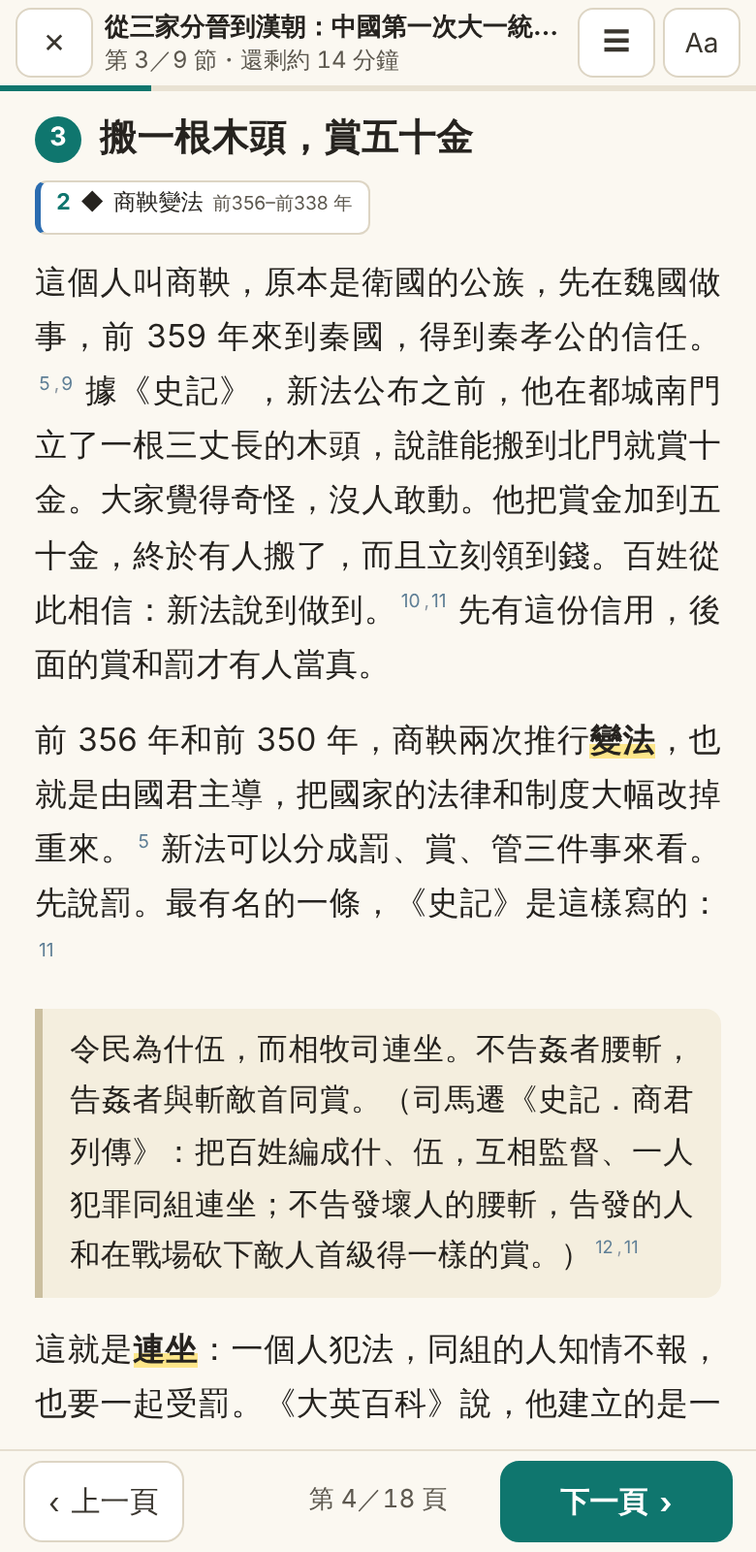
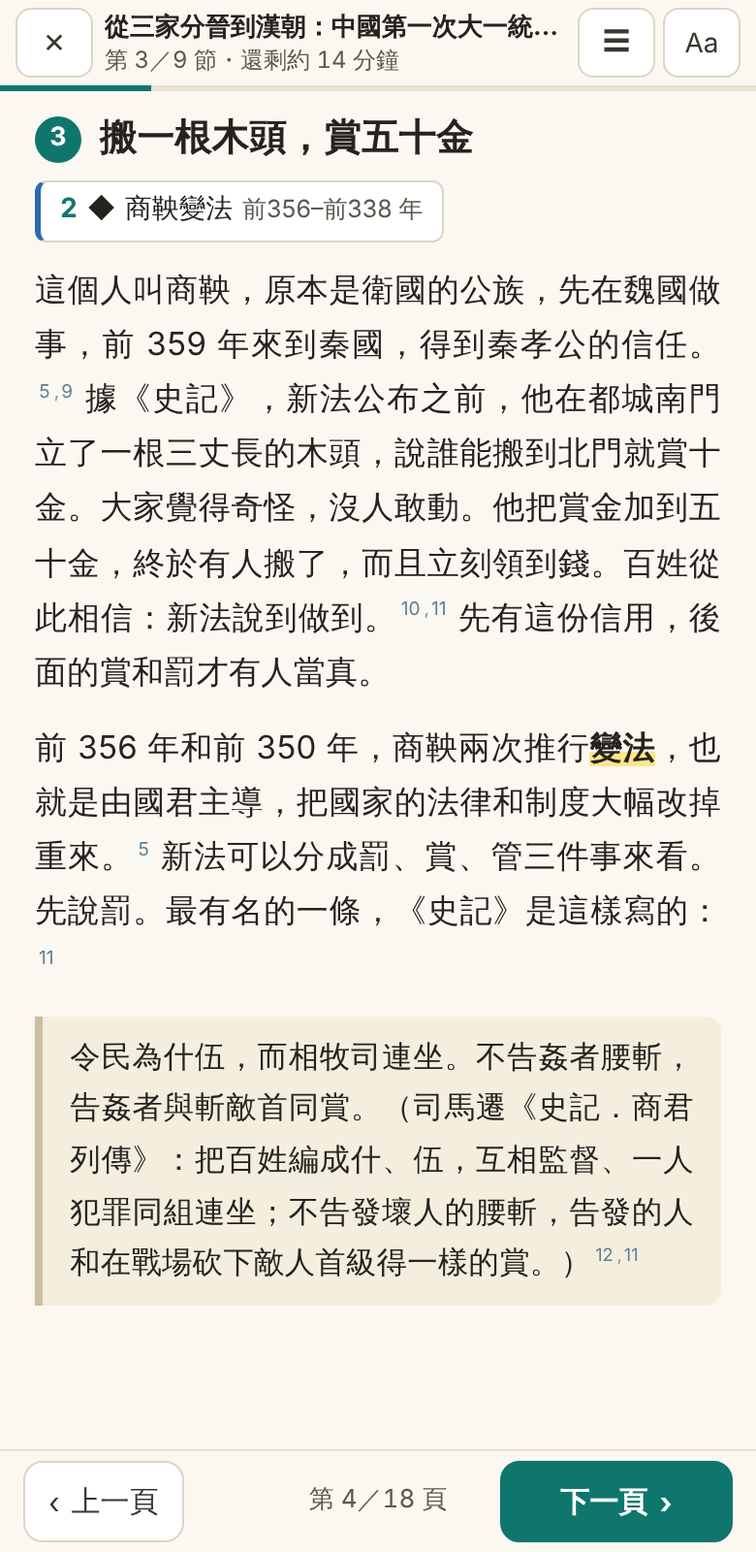
故事閱讀頁預設改回下拉單頁：桌機右側固定列出各節大標、一個畫面更多字、站卡片字放大；翻頁保留為選項
Claude-Session: https://claude.ai/code/session_01JFJ5rahVfcfgPX11x3VMnw

Changed region(s): [[0.0308, 0.125, 0.9538, 0.4375], [0.0615, 0.6562, 0.9231, 0.9375], [0.0308, 0.4688, 0.9538, 0.5938]]

diff --git a/src/components/StoryReader.tsx b/src/components/StoryReader.tsx
@@ -1,6 +1,6 @@
 // 故事閱讀頁：每條故事線一篇 5–25 分鐘可以一口氣讀完的文章（docs/stories.md）。
-// 預設「翻頁」：像書一樣一頁一頁翻（寬螢幕左右兩欄），一個畫面盡量多字、不必一直往下滑；也可以改成「捲動」。
-// 上方有進度條、剩餘時間、目錄、顯示設定（翻頁／捲動、字級、出處）；每節結尾有「記住」一句話，文末有「考考自己」。
+// 預設「下拉」：一頁往下滑，寬螢幕右邊固定列出每一節的大標（目前讀到的那節會亮起）；「Aa 顯示」可以改成「翻頁」（像書一樣一頁一頁翻）。
+// 上方有進度條、剩餘時間、目錄、顯示設定（下拉／翻頁、字級、出處）；每節結尾有「記住」一句話，文末有「考考自己」。
 // 研究模式與學習模式共用；全文打開才下載（public/data/stories/<id>.json）。
 import { useCallback, useEffect, useLayoutEffect, useMemo, useRef, useState } from 'react';
 import { createPortal } from 'react-dom';
@@ -11,7 +11,7 @@ import './story-reader.css';
 const READ_KEY = 'history-river-stories-read';
 const SIZE_KEY = 'history-river-story-size';
 const CITE_KEY = 'history-river-story-cite';
-const MODE_KEY = 'history-river-story-mode';
+const MODE_KEY = 'history-river-story-mode-v2';
 const HINT_KEY = 'history-river-story-hint';
 // 存「讀到第幾個區塊｜進度 0–1」；翻頁與捲動共用，換模式、換字級、轉螢幕都回得到同一段
 const posKey = (id: string) => `story-at-${id}`;
@@ -93,7 +93,7 @@ export function StoryReader({ story, index, onClose, onOpen, canOpen, researchHr
   const [failed, setFailed] = useState(false);
   const [size, setSize] = useState(() => { const raw = lsGet(SIZE_KEY), v = Number(raw); return raw !== null && raw !== '' && v >= 0 && v <= 3 && Number.isInteger(v) ? v : 1; });
   const [cite, setCite] = useState(() => lsGet(CITE_KEY) !== '0');
-  const [paged, setPaged] = useState(() => lsGet(MODE_KEY) !== 'scroll');
+  const [paged, setPaged] = useState(() => lsGet(MODE_KEY) === 'page');
   const [progress, setProgress] = useState(0);
   const [done, setDone] = useState(false);
   const [sec, setSec] = useState(0);
@@ -176,7 +176,7 @@ export function StoryReader({ story, index, onClose, onOpen, canOpen, researchHr
     const top = v.getBoundingClientRect().top;
     const end = el.querySelector<HTMLElement>('.sr-end');
     // 進度以「記住這幾件事」為終點（後面還有很長的來源清單）
-    const endAt = end ? Math.max(1, end.offsetTop - v.clientHeight * 0.6) : max;
+    const endAt = end ? Math.max(1, end.getBoundingClientRect().top - top + v.scrollTop - v.clientHeight * 0.6) : max;
     const p = max > 0 ? Math.min(1, v.scrollTop / Math.min(max, endAt)) : 1;
     let cur = 0;
     el.querySelectorAll<HTMLElement>('.sr-sec').forEach((h, i) => { if (h.getBoundingClientRect().top < top + v.clientHeight * 0.4) cur = i; });
@@ -310,6 +310,75 @@ export function StoryReader({ story, index, onClose, onOpen, canOpen, researchHr
 
   const lastPage = pg.page >= pg.pages - 1;
   const coarse = typeof matchMedia === 'function' && matchMedia('(pointer: coarse)').matches;
+  const article = (
+    <article className="sr-page" ref={pageEl} style={paged ? { transform: `translate3d(${-pg.page * pg.step}px,0,0)` } : undefined}>
+      <div className="sr-head" data-b="">
+        <p className="sr-kicker">故事線</p>
+        <h1>{story.title}</h1>
+        <p className="sr-question">{story.question}</p>
+        <p className="sr-meta">
+          {doc ? <>約 {doc.minutes} 分鐘・{doc.chars.toLocaleString()} 字・</> : null}{story.stops.length} 站{first && last && <>・{fmtRange(first.time.start, last.time.end)}</>}
+        </p>
+        {resumed && <p className="sr-resumed" role="status">已回到你上次讀到的地方。<button className="link" onClick={restart}>從頭讀</button></p>}
+        {failed && <p className="sr-fail" role="alert">故事載入失敗，請檢查網路後再試一次。<button className="link" onClick={() => { setFailed(false); loadStory(story.id).then(setDoc).catch(() => setFailed(true)); }}>重試</button></p>}
+        {!doc && !failed && <p className="muted" role="status">載入故事…</p>}
+        {doc && (
+          <nav className="sr-route" aria-label="這篇故事會走過的站">
+            <b>這篇故事會走過</b>
+            <ol>{story.stops.map((x, i) => { const c = byId.get(x.id); if (!c) return null; const at = secOf(x.id); return <li key={x.id}><button onClick={() => at >= 0 && jump(at)} title={`跳到「${doc.sections[at]?.title ?? ''}」`}><i>{i + 1}</i>{c.name}<small>{year(c.time.start)}</small></button></li>; })}</ol>
+          </nav>
+        )}
+      </div>
+
+      {doc?.sections.map((s, i) => (
+        <section key={i} className="sr-sec" aria-labelledby={`sr-h-${i}`}>
+          <h2 id={`sr-h-${i}`} data-b=""><span className="sr-sec-n" aria-hidden>{i + 1}</span>{s.title}</h2>
+          {s.cards.length > 0 && <div className="sr-stops" aria-label="這一節講的站">{s.cards.map(stopChip)}</div>}
+          {s.blocks.map((b, j) => b.kind === 'quote'
+            ? <blockquote key={j} data-b=""><Inline text={b.text} doc={doc} /></blockquote>
+            : b.kind === 'key'
+              ? <p key={j} className="sr-key" data-b=""><b>記住</b><span><Inline text={b.text} doc={doc} /></span></p>
+              : <p key={j} data-b=""><Inline text={b.text} doc={doc} /></p>)}
+        </section>
+      ))}
+
+      {doc && (
+        <footer className="sr-end">
+          {!!doc.recall?.length && (
+            <section className="sr-box recall" aria-labelledby="sr-recall" data-b="">
+              <h2 id="sr-recall">考考自己</h2>
+              <p className="sr-box-how">先不要往回翻，在心裡回答，再點開看答案。自己想過一次，比再讀一遍記得久。</p>
+              <ol>{doc.recall.map((x, i) => (
+                <li key={i}>
+                  <span className="sr-recall-q">{x.q}</span>
+                  {shown.has(i)
+                    ? <span className="sr-recall-a" role="status">{x.a}</span>
+                    : <button className="sr-recall-btn" onClick={() => reveal(i)}>想好了，看答案</button>}
+                </li>
+              ))}</ol>
+            </section>
+          )}
+          <section className="sr-box remember" aria-labelledby="sr-remember" data-b="">
+            <h2 id="sr-remember">記住這幾件事</h2>
+            <ol>{doc.remember.map((x, i) => <li key={i}>{x}</li>)}</ol>
+          </section>
+          <section className="sr-box think" aria-labelledby="sr-think" data-b="">
+            <h2 id="sr-think">想一想</h2>
+            <ul>{doc.think.map((x, i) => <li key={i}>{x}</li>)}</ul>
+          </section>
+          <div className="sr-tail" data-b="">
+            <p className="sr-note">故事只走了其中一條路：每一站通常還有別的原因和別的後果。想看每兩站之間的因果說明和來源，回到故事線一站一站看。</p>
+            <div className="sr-actions">
+              <button className="sr-act primary" onClick={onClose}>一站一站看因果 →</button>
+              {next && onStory && next.id !== story.id && <button className="sr-act" onClick={() => { openReading(next.id); onStory(next.id); }}>下一個故事：{next.title}<small>約 {next.read!.minutes} 分鐘</small></button>}
+            </div>
+            <button className="sr-sources-btn" aria-expanded={srcOpen} onClick={() => setSrcOpen((v) => !v)}>{srcOpen ? '▾' : '▸'} 這篇故事的出處（{doc.sources.length} 筆，都來自各站卡片上的來源）</button>
+          </div>
+          {srcOpen && <ol className="sr-sources">{doc.sources.map((x, i) => <li key={i}><a href={x.url} target="_blank" rel="noreferrer">{x.title}</a><small>（卡片「{x.cardName}」）</small></li>)}</ol>}
+        </footer>
+      )}
+    </article>
+  );
   return createPortal(
     <div className={`sr-overlay sr-size-${SIZES[size]} ${cite ? '' : 'sr-nocite'} ${paged ? 'sr-paged' : 'sr-scroll'}`} role="dialog" aria-modal="true" aria-label={`故事：${story.title}`} ref={overlay}>
       <header className="sr-bar">
@@ -320,7 +389,7 @@ export function StoryReader({ story, index, onClose, onOpen, canOpen, researchHr
         </div>
         <div className="sr-tools">
           {doc && <button className={`sr-tool ${menu === 'toc' ? 'on' : ''}`} onClick={() => setMenu((v) => (v === 'toc' ? '' : 'toc'))} aria-expanded={menu === 'toc'} aria-controls="sr-toc" title="目錄">☰<span>目錄</span></button>}
-          <button className={`sr-tool ${menu === 'view' ? 'on' : ''}`} onClick={() => setMenu((v) => (v === 'view' ? '' : 'view'))} aria-expanded={menu === 'view'} aria-controls="sr-view-menu" title="顯示設定：翻頁或捲動、字級、出處">Aa<span>顯示</span></button>
+          <button className={`sr-tool ${menu === 'view' ? 'on' : ''}`} onClick={() => setMenu((v) => (v === 'view' ? '' : 'view'))} aria-expanded={menu === 'view'} aria-controls="sr-view-menu" title="顯示設定：下拉或翻頁、字級、出處">Aa<span>顯示</span></button>
         </div>
         <div className="sr-progress" role="progressbar" aria-label="閱讀進度" aria-valuemin={0} aria-valuemax={100} aria-valuenow={Math.round(progress * 100)}><i style={{ transform: `scaleX(${progress})` }} /></div>
         {menu === 'toc' && doc && (
@@ -333,8 +402,8 @@ export function StoryReader({ story, index, onClose, onOpen, canOpen, researchHr
           <div className="sr-pop sr-view-menu" id="sr-view-menu" role="group" aria-label="顯示設定">
             <div className="sr-opt"><span>閱讀方式</span>
               <div className="sr-seg" role="group" aria-label="閱讀方式">
+                <button className={!paged ? 'on' : ''} aria-pressed={!paged} onClick={() => setMode(false)}>下拉</button>
                 <button className={paged ? 'on' : ''} aria-pressed={paged} onClick={() => setMode(true)}>翻頁</button>
-                <button className={!paged ? 'on' : ''} aria-pressed={!paged} onClick={() => setMode(false)}>捲動</button>
               </div>
             </div>
             <div className="sr-opt"><span>字級<small>{SIZE_NAME[size]}</small></span>
@@ -349,79 +418,29 @@ export function StoryReader({ story, index, onClose, onOpen, canOpen, researchHr
                 <button className={!cite ? 'on' : ''} aria-pressed={!cite} aria-label="隱藏出處的小數字" onClick={() => { if (cite) toggleCite(); }}>隱藏</button>
               </div>
             </div>
-            <p className="sr-opt-tip">{paged ? '翻頁：按 → 或空白鍵、滾滑鼠、點「下一頁」；手機可以左右滑或點畫面右側。' : '捲動：像一般網頁一樣往下滑。'}</p>
+            <p className="sr-opt-tip">{paged ? '翻頁：按 → 或空白鍵、滾滑鼠、點「下一頁」；手機可以左右滑或點畫面右側。' : '下拉：像一般網頁一樣往下滑；寬螢幕右邊有大標，點一下就跳到那一節。'}</p>
           </div>
         )}
       </header>
 
       <div className="sr-view" ref={view} tabIndex={-1} onClick={() => menu && setMenu('')}>
-        <article className="sr-page" ref={pageEl} style={paged ? { transform: `translate3d(${-pg.page * pg.step}px,0,0)` } : undefined}>
-          <div className="sr-head" data-b="">
-            <p className="sr-kicker">故事線</p>
-            <h1>{story.title}</h1>
-            <p className="sr-question">{story.question}</p>
-            <p className="sr-meta">
-              {doc ? <>約 {doc.minutes} 分鐘・{doc.chars.toLocaleString()} 字・</> : null}{story.stops.length} 站{first && last && <>・{fmtRange(first.time.start, last.time.end)}</>}
-            </p>
-            {resumed && <p className="sr-resumed" role="status">已回到你上次讀到的地方。<button className="link" onClick={restart}>從頭讀</button></p>}
-            {failed && <p className="sr-fail" role="alert">故事載入失敗，請檢查網路後再試一次。<button className="link" onClick={() => { setFailed(false); loadStory(story.id).then(setDoc).catch(() => setFailed(true)); }}>重試</button></p>}
-            {!doc && !failed && <p className="muted" role="status">載入故事…</p>}
+        {paged ? article : (
+          <div className="sr-wrap">
+            {article}
             {doc && (
-              <nav className="sr-route" aria-label="這篇故事會走過的站">
-                <b>這篇故事會走過</b>
-                <ol>{story.stops.map((x, i) => { const c = byId.get(x.id); if (!c) return null; const at = secOf(x.id); return <li key={x.id}><button onClick={() => at >= 0 && jump(at)} title={`跳到「${doc.sections[at]?.title ?? ''}」`}><i>{i + 1}</i>{c.name}<small>{year(c.time.start)}</small></button></li>; })}</ol>
-              </nav>
+              <aside className="sr-side" aria-label="這篇故事的大標">
+                <p className="sr-side-left">{done ? '讀完了' : `還剩約 ${left} 分鐘`}</p>
+                <h2 className="sr-side-h">這篇故事</h2>
+                <ol>
+                  {doc.sections.map((x, i) => (
+                    <li key={i}><button className={`${i === sec && !done ? 'here' : ''} ${i < sec || done ? 'past' : ''}`} aria-current={i === sec && !done ? 'true' : undefined} onClick={() => jump(i)}><span className="sr-side-n" aria-hidden>{i + 1}</span><span>{x.title}</span></button></li>
+                  ))}
+                  <li><button className={`end ${done ? 'here' : ''}`} aria-current={done ? 'true' : undefined} onClick={() => jumpTo(pageEl.current?.querySelector('.sr-end'))}><span className="sr-side-n" aria-hidden>考</span><span>考考自己・記住這幾件事</span></button></li>
+                </ol>
+              </aside>
             )}
           </div>
-
-          {doc?.sections.map((s, i) => (
-            <section key={i} className="sr-sec" aria-labelledby={`sr-h-${i}`}>
-              <h2 id={`sr-h-${i}`} data-b=""><span className="sr-sec-n" aria-hidden>{i + 1}</span>{s.title}</h2>
-              {s.cards.length > 0 && <div className="sr-stops" aria-label="這一節講的站">{s.cards.map(stopChip)}</div>}
-              {s.blocks.map((b, j) => b.kind === 'quote'
-                ? <blockquote key={j} data-b=""><Inline text={b.text} doc={doc} /></blockquote>
-                : b.kind === 'key'
-                  ? <p key={j} className="sr-key" data-b=""><b>記住</b><span><Inline text={b.text} doc={doc} /></span></p>
-                  : <p key={j} data-b=""><Inline text={b.text} doc={doc} /></p>)}
-            </section>
-          ))}
-
-          {doc && (
-            <footer className="sr-end">
-              {!!doc.recall?.length && (
-                <section className="sr-box recall" aria-labelledby="sr-recall" data-b="">
-                  <h2 id="sr-recall">考考自己</h2>
-                  <p className="sr-box-how">先不要往回翻，在心裡回答，再點開看答案。自己想過一次，比再讀一遍記得久。</p>
-                  <ol>{doc.recall.map((x, i) => (
-                    <li key={i}>
-                      <span className="sr-recall-q">{x.q}</span>
-                      {shown.has(i)
-                        ? <span className="sr-recall-a" role="status">{x.a}</span>
-                        : <button className="sr-recall-btn" onClick={() => reveal(i)}>想好了，看答案</button>}
-                    </li>
-                  ))}</ol>
-                </section>
-              )}
-              <section className="sr-box remember" aria-labelledby="sr-remember" data-b="">
-                <h2 id="sr-remember">記住這幾件事</h2>
-                <ol>{doc.remember.map((x, i) => <li key={i}>{x}</li>)}</ol>
-              </section>
-              <section className="sr-box think" aria-labelledby="sr-think" data-b="">
-                <h2 id="sr-think">想一想</h2>
-                <ul>{doc.think.map((x, i) => <li key={i}>{x}</li>)}</ul>
-              </section>
-              <div className="sr-tail" data-b="">
-                <p className="sr-note">故事只走了其中一條路：每一站通常還有別的原因和別的後果。想看每兩站之間的因果說明和來源，回到故事線一站一站看。</p>
-                <div className="sr-actions">
-                  <button className="sr-act primary" onClick={onClose}>一站一站看因果 →</button>
-                  {next && onStory && next.id !== story.id && <button className="sr-act" onClick={() => { openReading(next.id); onStory(next.id); }}>下一個故事：{next.title}<small>約 {next.read!.minutes} 分鐘</small></button>}
-                </div>
-                <button className="sr-sources-btn" aria-expanded={srcOpen} onClick={() => setSrcOpen((v) => !v)}>{srcOpen ? '▾' : '▸'} 這篇故事的出處（{doc.sources.length} 筆，都來自各站卡片上的來源）</button>
-              </div>
-              {srcOpen && <ol className="sr-sources">{doc.sources.map((x, i) => <li key={i}><a href={x.url} target="_blank" rel="noreferrer">{x.title}</a><small>（卡片「{x.cardName}」）</small></li>)}</ol>}
-            </footer>
-          )}
-        </article>
+        )}
       </div>
 
       {paged && doc && (

diff --git a/src/components/story-reader.css b/src/components/story-reader.css
@@ -1,5 +1,5 @@
 /* 故事閱讀頁：全螢幕、暖色紙底。目標是「一個畫面盡量多字、不必一直滑」：
-   預設翻頁（寬螢幕左右兩欄，像攤開的書），也可以改捲動。行距 1.75、一行 26–34 個中文字。 */
+   預設下拉（寬螢幕右邊有大標欄），也可以改翻頁（寬螢幕左右兩欄，像攤開的書）。行距 1.75。 */
 .sr-overlay { position: fixed; inset: 0; z-index: 5000; display: flex; flex-direction: column; background: #fbf8f1; color: #26231f; --sr-fs: 17px; --sr-pad: 30px; }
 .sr-overlay.sr-size-s { --sr-fs: 15.5px; }
 .sr-overlay.sr-size-l { --sr-fs: 19px; }
@@ -50,7 +50,7 @@
 .sr-resumed, .sr-fail { font-size: .8em; background: #fff7d6; border: 1px solid #ecd98a; border-radius: 8px; padding: 4px 12px; margin: 6px 0; }
 .sr-fail { background: #fde8e8; border-color: #f2a5a5; }
 /* 開頭的路線：先知道會走過哪幾站，讀的時候才有地方掛 */
-.sr-route { margin: 10px 0 0; padding: 8px 12px 10px; border: 1px solid #e6dfd0; border-radius: 10px; background: #fffdf8; font-size: .8em; line-height: 1.5; letter-spacing: 0; break-inside: avoid; }
+.sr-route { margin: 10px 0 0; padding: 8px 12px 10px; border: 1px solid #e6dfd0; border-radius: 10px; background: #fffdf8; font-size: .9em; line-height: 1.5; letter-spacing: 0; break-inside: avoid; }
 .sr-route > b { display: block; font-size: .92em; color: #5d584f; margin-bottom: 4px; }
 .sr-route ol { margin: 0; padding: 0; list-style: none; display: flex; flex-wrap: wrap; gap: 4px 2px; align-items: center; }
 .sr-route li { display: inline-flex; align-items: center; }
@@ -64,10 +64,10 @@
 .sr-sec h2 { margin: 0 0 .4em; font-size: 1.16em; line-height: 1.45; display: flex; gap: .5em; align-items: baseline; text-wrap: balance; break-after: avoid; scroll-margin-top: 12px; }
 .sr-sec-n { flex: none; font-size: .7em; font-weight: 700; color: #fff; background: var(--story, #0f766e); border-radius: 50%; width: 1.8em; height: 1.8em; display: inline-flex; align-items: center; justify-content: center; position: relative; top: -.12em; }
 .sr-stops { display: flex; flex-wrap: wrap; gap: 5px; margin: 0 0 .6em; break-after: avoid; break-inside: avoid; }
-.sr-stop { font: inherit; font-size: .7em; line-height: 1.45; letter-spacing: 0; display: inline-flex; align-items: baseline; gap: 5px; flex-wrap: wrap; background: #fff; border: 1px solid #ddd5c4; border-left: 3px solid var(--story, #0f766e);
-  border-radius: 6px; padding: 2px 8px; color: inherit; cursor: pointer; text-decoration: none; min-height: 28px; text-align: left; }
+.sr-stop { font: inherit; font-size: .84em; line-height: 1.45; letter-spacing: 0; display: inline-flex; align-items: baseline; gap: 5px; flex-wrap: wrap; background: #fff; border: 1px solid #ddd5c4; border-left: 3px solid var(--story, #0f766e);
+  border-radius: 6px; padding: 4px 10px; color: inherit; cursor: pointer; text-decoration: none; min-height: 32px; text-align: left; }
 .sr-stop:hover { background: #f2fbf9; border-color: var(--story, #0f766e); }
-.sr-stop small { color: #5d584f; }
+.sr-stop small { color: #5d584f; font-size: .9em; }
 .sr-stop.off { color: #5d584f; background: #f6f4ef; }
 .sr-stop-n { color: var(--story, #0f766e); font-variant-numeric: tabular-nums; }
 .sr-page p { margin: 0 0 .7em; overflow-wrap: break-word; }
@@ -114,9 +114,33 @@
 .sr-sources li { margin-bottom: .3em; overflow-wrap: anywhere; }
 .sr-sources small { color: #6f6a62; margin-left: 4px; }
 
-/* ---- 捲動模式：單欄往下滑 ---- */
+/* ---- 下拉模式：單欄往下滑；寬螢幕右邊多一欄固定的大標 ---- */
 .sr-scroll .sr-view { overflow-y: auto; overscroll-behavior: contain; -webkit-overflow-scrolling: touch; }
-.sr-scroll .sr-page { max-width: calc(36em + 40px); margin: 0 auto; padding: 22px 20px 80px; }
+.sr-scroll .sr-wrap { max-width: 1180px; margin: 0 auto; padding: 16px 20px 80px; box-sizing: border-box; }
+.sr-scroll .sr-page { max-width: 42em; margin: 0 auto; letter-spacing: 0; }
+.sr-scroll .sr-page p { margin-bottom: .6em; }
+.sr-scroll .sr-sec { margin-top: 1.5em; }
+.sr-side { display: none; }
+@media (min-width: 1000px) {
+  .sr-scroll .sr-wrap { display: grid; grid-template-columns: minmax(0, calc(42 * var(--sr-fs))) 270px; column-gap: 36px; justify-content: center; align-items: start; }
+  .sr-scroll .sr-page { max-width: none; margin: 0; }
+  .sr-scroll [aria-controls="sr-toc"] { display: none; }
+  .sr-side { display: block; position: sticky; top: 18px; align-self: start; max-height: calc(100vh - 100px); overflow-y: auto; box-sizing: border-box;
+    background: #fffdf8; border: 1px solid #e6dfd0; border-radius: 12px; padding: 12px 8px 8px; font-size: 14.5px; line-height: 1.45; letter-spacing: 0; }
+  .sr-side-left { margin: 0 8px 2px; font-size: 12.5px; color: #6f6a62; font-variant-numeric: tabular-nums; }
+  .sr-side-h { margin: 0 8px 6px; font-size: 15px; color: #3a362f; }
+  .sr-side ol { margin: 0; padding: 0; list-style: none; }
+  .sr-side button { width: 100%; min-height: 36px; display: flex; align-items: flex-start; gap: 9px; text-align: left; font: inherit; font-size: 14.5px; line-height: 1.45; background: none; border: 0; border-radius: 8px; padding: 7px 8px; color: #4a463f; cursor: pointer; }
+  .sr-side button:hover { background: #f4f0e4; }
+  .sr-side button.here { background: var(--story-bg, #effaf8); color: #26231f; font-weight: 700; box-shadow: inset 3px 0 0 var(--story, #0f766e); }
+  .sr-side-n { flex: none; width: 21px; height: 21px; box-sizing: border-box; margin-top: -.05em; border-radius: 50%; display: inline-flex; align-items: center; justify-content: center; font-size: 12.5px; font-weight: 700; color: #fff; background: var(--story, #0f766e); }
+  .sr-side button.past .sr-side-n { background: var(--story-bg, #effaf8); color: var(--story, #0f766e); box-shadow: inset 0 0 0 1px var(--story-line, #b6e2dc); }
+  .sr-side button.past .sr-side-n::before { content: '✓'; }
+  .sr-side button.past .sr-side-n { font-size: 0; }
+  .sr-side button.past .sr-side-n::before { font-size: 12.5px; }
+  .sr-side button.end { margin-top: 4px; border-top: 1px solid #eee7d8; border-radius: 0 0 8px 8px; padding-top: 10px; }
+  .sr-side button.end .sr-side-n { background: #7c6fd0; font-size: 11.5px; }
+}
 
 /* ---- 翻頁模式：固定高度，文字流進一欄一欄，一次位移一整頁 ----
    欄距＝左右留白的兩倍，隔壁頁的字才不會從邊緣露出來。 */
@@ -165,7 +189,8 @@
   .sr-overlay.sr-size-l { --sr-fs: 18.5px; }
   .sr-overlay.sr-size-xl { --sr-fs: 21px; }
   .sr-page { line-height: 1.7; }
-  .sr-scroll .sr-page { padding: 16px 18px 72px; }
+  .sr-scroll .sr-wrap { padding: 16px 18px 72px; }
+  .sr-scroll .sr-page p { margin-bottom: .6em; }
   .sr-paged .sr-view { padding-top: 12px; padding-bottom: 8px; }
   .sr-turn { padding: 0 12px; }
   .sr-turn.next { min-width: 120px; }
@@ -174,7 +199,7 @@
 }
 @media (prefers-reduced-motion: reduce) { .sr-progress i, .sr-paged .sr-page { transition: none; } }
 @media print {
-  .sr-bar, .sr-actions, .sr-resumed, .sr-pager { display: none; }
+  .sr-bar, .sr-actions, .sr-resumed, .sr-pager, .sr-side { display: none !important; }
   .sr-overlay { position: static; display: block; background: #fff; }
   .sr-view { overflow: visible !important; max-width: none !important; }
   .sr-page { height: auto !important; columns: 1 !important; transform: none !important; }

diff --git a/docs/stories.md b/docs/stories.md
@@ -90,5 +90,5 @@ npm run validate                                  # 全站檢查（含故事）
 ## 畫面
 
 - 故事線頁最上面有「📖 讀故事（約 N 分鐘）」；故事線清單、學習首頁的每條故事線都標閱讀時間。網址 `?story=story-xxx&read=1`（學習模式 `?mode=learn&story=story-xxx&read=1`）。
-- 閱讀頁：預設**翻頁**（像書一樣一頁一頁翻；寬螢幕左右兩欄，一頁約 1,000 字，手機約 400 字），用 →／空白鍵／滑鼠滾輪／「下一頁」／手機左右滑或點畫面右側翻頁；「Aa 顯示」可以改成捲動、調字級（四段）、隱藏出處。開頭列出「這篇故事會走過」的站；每節最後有「記住」一句話；文末依序是「考考自己」（答案先蓋住）、「記住這幾件事」、「想一想」、全部來源，以及「一站一站看因果」回到故事線。讀到哪一段會記住（換模式、換字級、開卡片再回來都接得上）。
+- 閱讀頁：預設**下拉**（一頁往下滑；寬螢幕右邊固定列出每節大標，讀到哪節就亮哪節，手機單欄、用「目錄」按鈕）；「Aa 顯示」可以改成**翻頁**（像書一樣一頁一頁翻，用 →／空白鍵／滑鼠滾輪／「下一頁」／手機左右滑或點畫面右側）、調字級（四段）、隱藏出處。開頭列出「這篇故事會走過」的站；每節最後有「記住」一句話；文末依序是「考考自己」（答案先蓋住）、「記住這幾件事」、「想一想」、全部來源，以及「一站一站看因果」回到故事線。讀到哪一段會記住（換模式、換字級、開卡片再回來都接得上）。
 - 建置時每篇輸出成 `public/data/stories/<id>.json`，打開才下載；`index.json` 的故事線只多了 `read: { minutes, chars, hook }`。
